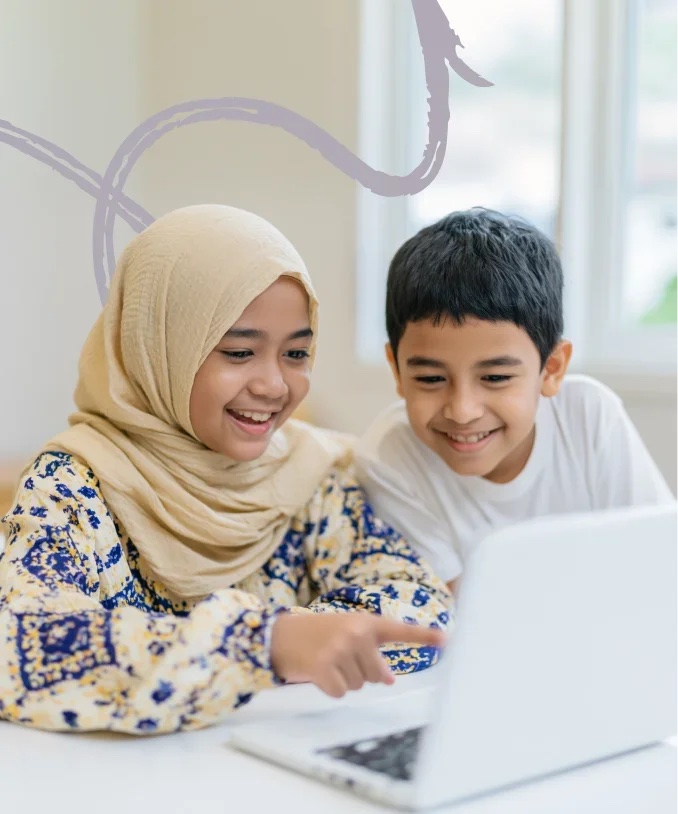
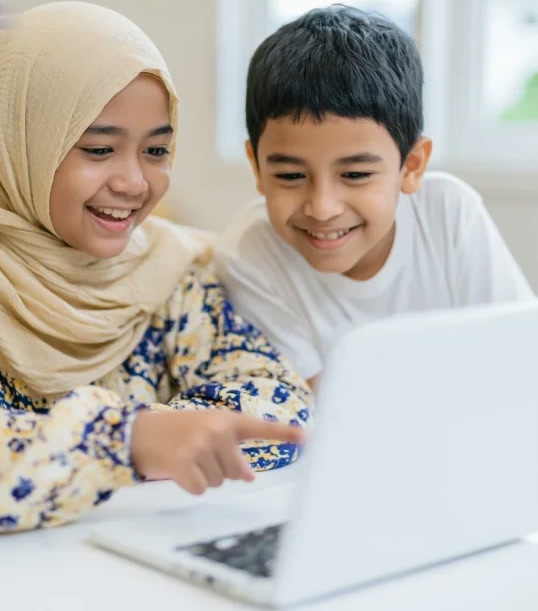
TEST: no violet line, kids photo cropped without baked-in scribble

diff --git a/en/test/index.html b/en/test/index.html
@@ -324,7 +324,7 @@ h3{font-size:20px;line-height:1.3;letter-spacing:-.01em;font-weight:700}
 </style>
 </head>
 <body>
-<header class="hero"><img class="ln ln-a" src="../../assets/lines/violet.svg" alt="" aria-hidden="true"><img class="ln ln-b" src="../../assets/lines/white.svg" alt="" aria-hidden="true"><div class="wrap">
+<header class="hero"><img class="ln ln-b" src="../../assets/lines/white.svg" alt="" aria-hidden="true"><div class="wrap">
 <nav class="nav">
 <a href="./" aria-label="Algonova"><img src="../../assets/logo-white.svg" alt="Algonova" width="120" height="32"></a>
 <div class="nav-right"><span class="nav-tag">Visual Programming · Ages 8–11</span><div class="lang" role="navigation" aria-label="Language"><a href="../../" hreflang="id" lang="id">ID</a><a href="../../en/" hreflang="en" lang="en">EN</a><span aria-current="true">TEST</span><a href="../test2/">TEST 2</a></div></div>
@@ -340,7 +340,7 @@ h3{font-size:20px;line-height:1.3;letter-spacing:-.01em;font-weight:700}
 <li class="chip">Chat support every day</li>
 </ul>
 </div>
-<figure class="hero-visual hero-photo"><img src="../../assets/hero/kids_laptop.jpg" alt="" width="678" height="814"><img class="sticker" src="../../assets/sticker-scratch.svg" alt="" aria-hidden="true"></figure>
+<figure class="hero-visual hero-photo"><img src="../../assets/hero/kids_laptop.jpg" alt="" width="538" height="611"><img class="sticker" src="../../assets/sticker-scratch.svg" alt="" aria-hidden="true"></figure>
 </div>
 </div></header>
 <main>

diff --git a/test/index.html b/test/index.html
@@ -324,7 +324,7 @@ h3{font-size:20px;line-height:1.3;letter-spacing:-.01em;font-weight:700}
 </style>
 </head>
 <body>
-<header class="hero"><img class="ln ln-a" src="../assets/lines/violet.svg" alt="" aria-hidden="true"><img class="ln ln-b" src="../assets/lines/white.svg" alt="" aria-hidden="true"><div class="wrap">
+<header class="hero"><img class="ln ln-b" src="../assets/lines/white.svg" alt="" aria-hidden="true"><div class="wrap">
 <nav class="nav">
 <a href="./" aria-label="Algonova"><img src="../assets/logo-white.svg" alt="Algonova" width="120" height="32"></a>
 <div class="nav-right"><span class="nav-tag">Pemrograman Visual · Usia 8–11 tahun</span><div class="lang" role="navigation" aria-label="Bahasa"><a href="../" hreflang="id" lang="id">ID</a><a href="../en/" hreflang="en" lang="en">EN</a><span aria-current="true">TEST</span><a href="../test2/">TEST 2</a></div></div>
@@ -340,7 +340,7 @@ h3{font-size:20px;line-height:1.3;letter-spacing:-.01em;font-weight:700}
 <li class="chip">Bantuan chat setiap hari</li>
 </ul>
 </div>
-<figure class="hero-visual hero-photo"><img src="../assets/hero/kids_laptop.jpg" alt="" width="678" height="814"><img class="sticker" src="../assets/sticker-scratch.svg" alt="" aria-hidden="true"></figure>
+<figure class="hero-visual hero-photo"><img src="../assets/hero/kids_laptop.jpg" alt="" width="538" height="611"><img class="sticker" src="../assets/sticker-scratch.svg" alt="" aria-hidden="true"></figure>
 </div>
 </div></header>
 <main>

diff --git a/_build/build_site.py b/_build/build_site.py
@@ -685,8 +685,9 @@ def landing(lang, variant="main"):
         items = [("ID", root, "id"), ("EN", root + "en/", "en"),
                  ("TEST", None if variant == "test" else "../test/", None),
                  ("TEST 2", None if variant == "test2" else "../test2/", None)]
+    line_a = "" if variant == "test" else f'<img class="ln ln-a" src="{prefix}assets/lines/violet.svg" alt="" aria-hidden="true">'
     if variant == "test":
-        visual = (f'<figure class="hero-visual hero-photo"><img src="{prefix}assets/hero/kids_laptop.jpg" alt="" width="678" height="814">'
+        visual = (f'<figure class="hero-visual hero-photo"><img src="{prefix}assets/hero/kids_laptop.jpg" alt="" width="538" height="611">'
                   f'<img class="sticker" src="{prefix}assets/sticker-scratch.svg" alt="" aria-hidden="true"></figure>')
     elif variant == "test2":
         visual = (f'<figure class="hero-visual hero-book"><img src="{prefix}assets/hero/book_visual_coding.webp" alt="Visual Coding · 8–11" width="720" height="1046"></figure>')
@@ -696,7 +697,7 @@ def landing(lang, variant="main"):
                   f'<span class="muted">{t("stat_sub")}</span>\n</div>')
 
     # HERO
-    out.append(f"""<header class="hero"><img class="ln ln-a" src="{prefix}assets/lines/violet.svg" alt="" aria-hidden="true"><img class="ln ln-b" src="{prefix}assets/lines/white.svg" alt="" aria-hidden="true"><div class="wrap">
+    out.append(f"""<header class="hero">{line_a}<img class="ln ln-b" src="{prefix}assets/lines/white.svg" alt="" aria-hidden="true"><div class="wrap">
 {nav(t, prefix, "./", items)}
 <div class="hero-grid">
 <div class="hero-copy">
